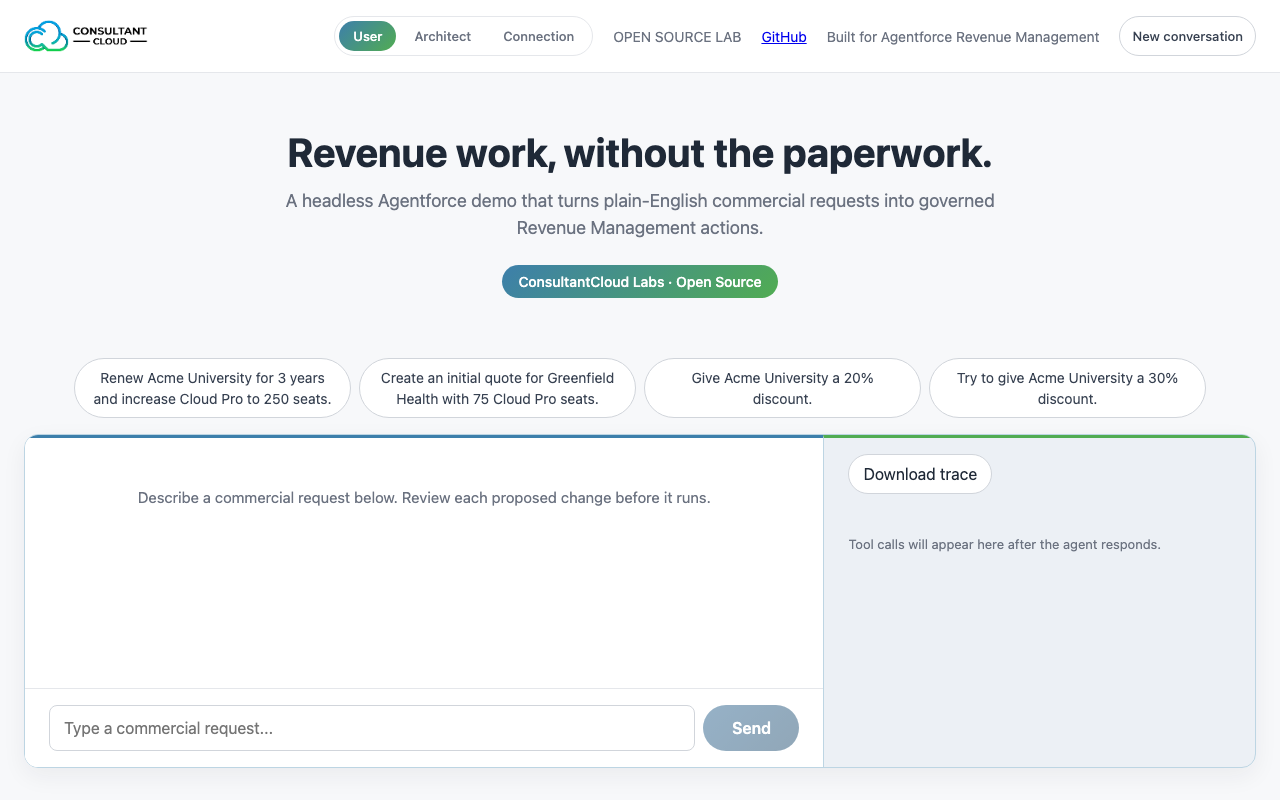
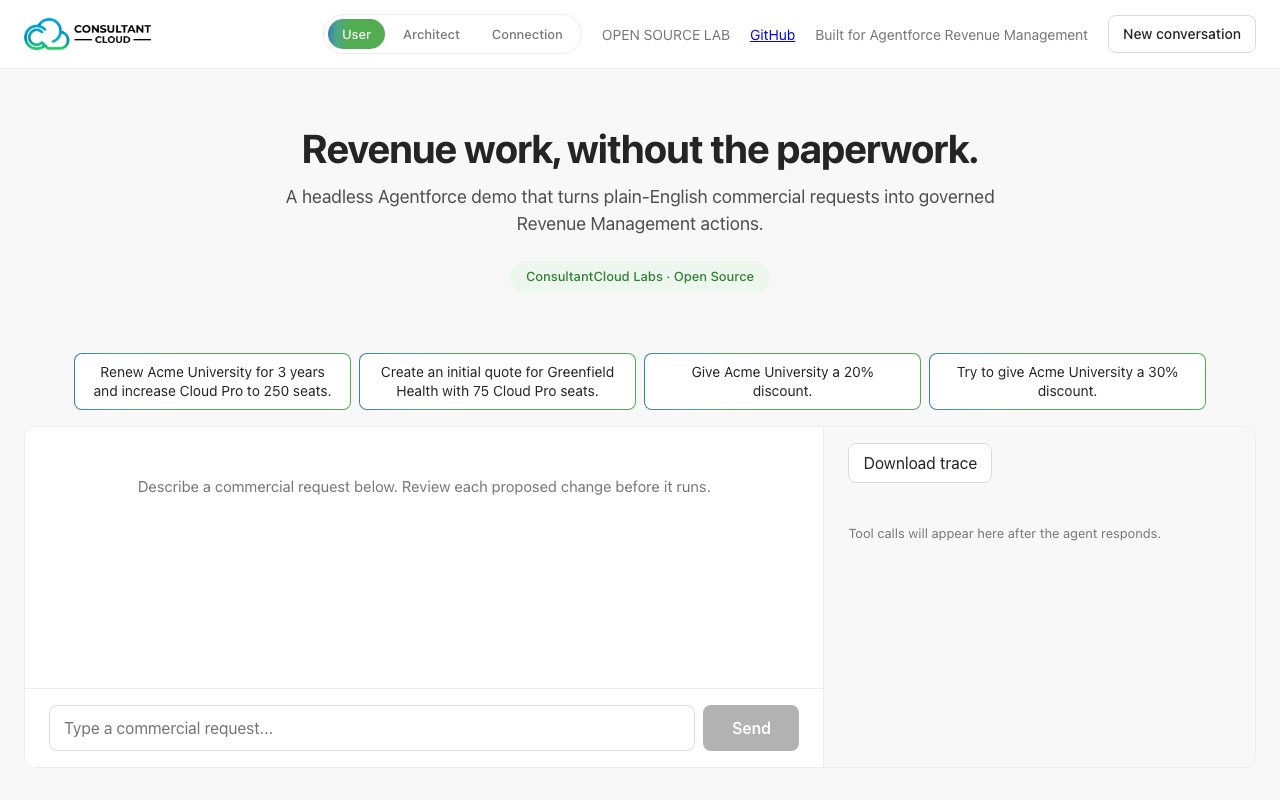
fix(agent): don't end a turn mid-plan; README GIFs of the restyled app
- The runtime allowed 4 model calls per turn and, when they ran out,
  returned the model's last interim text ("Let me check the billing
  summary...") as if it were the answer. It now allows 8, and if those run
  out it asks once more with tools off, so the user gets what was found,
  what's missing and what to do next. Covered by a new test.
- README: GIFs of Architect mode inspecting a bundle and of the CPQ
  migration report, both recorded on live orgs, and the landing screenshot
  of the restyled UI.

diff --git a/packages/agent-runtime/src/index.ts b/packages/agent-runtime/src/index.ts
@@ -60,7 +60,7 @@ type ChatMessage = {
 export const AGENT_RUNTIME_DEFAULTS = {
   apiUrl: "https://openrouter.ai/api/v1/chat/completions",
   model: "deepseek/deepseek-v4-flash-0731",
-  toolLoopLimit: 4,
+  toolLoopLimit: 8,
   confirmationRequired: true,
 } as const;
 
@@ -316,13 +316,13 @@ export async function runAgentTurn(
     return continuation ? `${confirmedMessage} ${continuation}` : confirmedMessage;
   };
 
-  for (let iteration = 0; iteration < AGENT_RUNTIME_DEFAULTS.toolLoopLimit; iteration += 1) {
+  const callModel = async (toolChoice: "auto" | "none"): Promise<ChatMessage> => {
     const apiKey = options.apiKey ?? process.env.LLM_API_KEY;
     if (!apiKey) throw new Error("LLM_API_KEY is required to call the configured chat completions API");
     const llmRequestInit: RequestInit = {
       method: "POST",
       headers: { "content-type": "application/json", authorization: `Bearer ${apiKey}` },
-      body: JSON.stringify({ model: options.model ?? AGENT_RUNTIME_DEFAULTS.model, messages, tools: chatTools, tool_choice: "auto", stream: false, max_tokens: 2048 }),
+      body: JSON.stringify({ model: options.model ?? AGENT_RUNTIME_DEFAULTS.model, messages, tools: chatTools, tool_choice: toolChoice, stream: false, max_tokens: 2048 }),
     };
     const llmRetryDelaysMs = [1000, 2000];
     let response: Response | undefined;
@@ -345,6 +345,11 @@ export async function runAgentTurn(
     const body = await response.json() as { choices?: Array<{ message?: ChatMessage }> };
     const assistant = body.choices?.[0]?.message;
     if (!assistant) throw new Error("LLM API response did not contain choices[0].message");
+    return assistant;
+  };
+
+  for (let iteration = 0; iteration < AGENT_RUNTIME_DEFAULTS.toolLoopLimit; iteration += 1) {
+    const assistant = await callModel("auto");
     latestText = assistant.content ?? latestText;
     messages.push(assistant);
     const calls = (assistant.tool_calls ?? []).map((call) => {
@@ -403,5 +408,12 @@ export async function runAgentTurn(
     }
   }
 
-  return { message: combinedMessage(latestText), trace, pendingConfirmation: null };
+  // Out of tool rounds: rather than return a half-finished "let me check..." as if it were the
+  // answer, ask once more with tools off, so the user gets what was found and what's missing.
+  messages.push({
+    role: "user",
+    content: "You have run out of tool calls for this turn. Reply now, without tools: summarise what you found, what you could not complete, and what the user should do next.",
+  });
+  const wrapUp = await callModel("none");
+  return { message: combinedMessage(wrapUp.content || latestText), trace, pendingConfirmation: null };
 }

diff --git a/packages/agent-runtime/tests/agentRuntime.test.ts b/packages/agent-runtime/tests/agentRuntime.test.ts
@@ -51,6 +51,22 @@ describe("agent runtime", () => {
     for (const name of excluded) expect(names).not.toContain(name);
   });
 
+  it("answers properly when it runs out of tool rounds, instead of stopping mid-plan", async () => {
+    const readRound = () => chatCompletionResponse({ role: "assistant", content: "Let me check the billing summary.", tool_calls: [{ function: { name: "find_account", arguments: { name: "Acme" } } }] });
+    const fetchMock = vi.fn().mockImplementation(async (_url: string, init: RequestInit) =>
+      JSON.parse(init.body as string).tool_choice === "none"
+        ? chatCompletionResponse({ role: "assistant", content: "Acme University has no open quote yet. Create one first, then I can apply the discount." })
+        : readRound());
+    vi.stubGlobal("fetch", fetchMock);
+
+    const result = await runAgentTurn({ kind: "message", text: "Discount Acme", history: [] }, new MockRevenueGateway());
+
+    const choices = fetchMock.mock.calls.map((call) => JSON.parse(call[1].body as string).tool_choice);
+    expect(choices).toEqual([...Array(8).fill("auto"), "none"]);
+    expect(result.message).toBe("Acme University has no open quote yet. Create one first, then I can apply the discount.");
+    expect(result.trace).toHaveLength(8);
+  });
+
   it("gates an architect catalog mutation before execution", async () => {
     vi.stubGlobal("fetch", vi.fn().mockResolvedValue(chatCompletionResponse({ role: "assistant", content: "", tool_calls: [{ function: { name: "create_product", arguments: { name: "Architect Product", family: "Software" } } }] })));
     const gateway = new MockRevenueGateway(); const spy = vi.spyOn(gateway, "createProduct");

diff --git a/README.md b/README.md
@@ -30,6 +30,12 @@ until you confirm. Discount limits and approvals are enforced by code, not by th
   It is assembled by rules, not by an LLM: see
   [an example report](docs/cpq-to-revenue-cloud-migration-report.md).
 
+| Inspect a bundle in a live Revenue Cloud org | Run the CPQ migration report on a live CPQ org |
+|---|---|
+| ![Asking Architect mode for the Laptop Pro Bundle's structure](docs/media/architect-bundle.gif) | ![Generating the CPQ to Revenue Cloud migration report](docs/media/cpq-migration-report.gif) |
+
+Both recordings are against real Salesforce orgs. Waits for the model and the org are sped up.
+
 **Where you can use it**
 - **The web app** (`apps/web`), with Salesforce OAuth sign-in for your Revenue Cloud and CPQ orgs.
 - **Slack:** `/quickpick` opens a quote and configures its bundles step by step, without leaving
